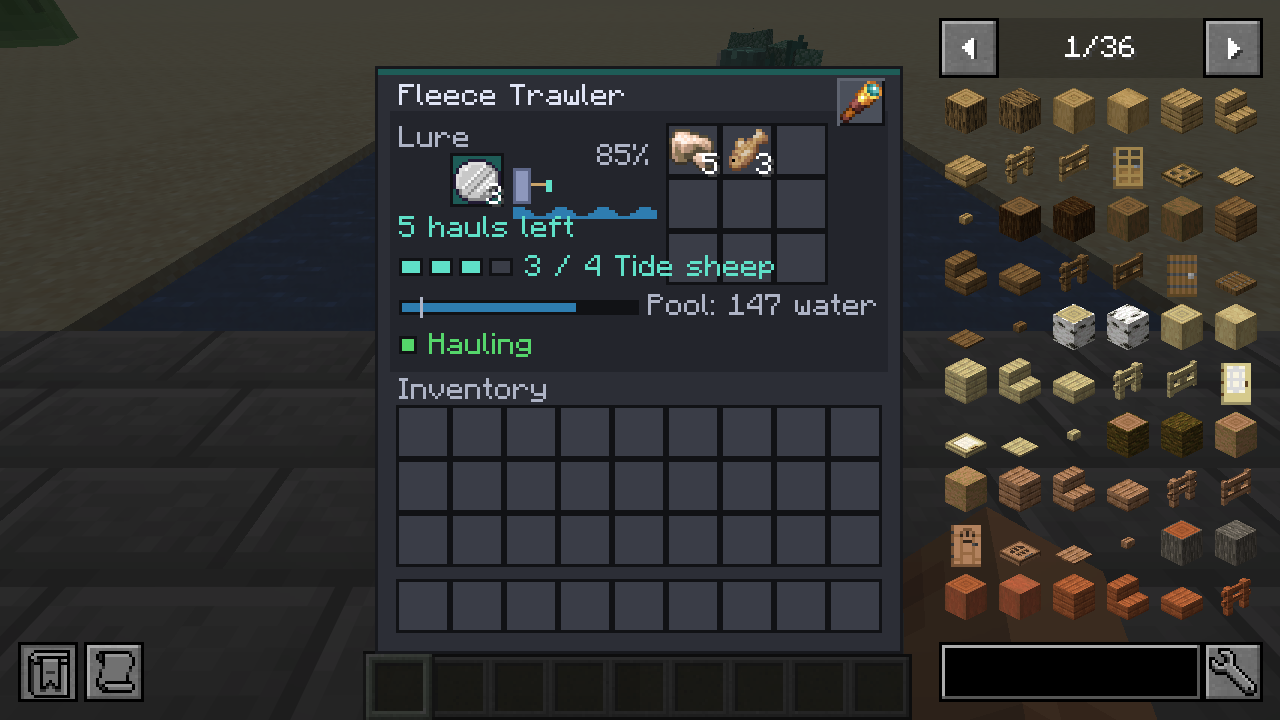
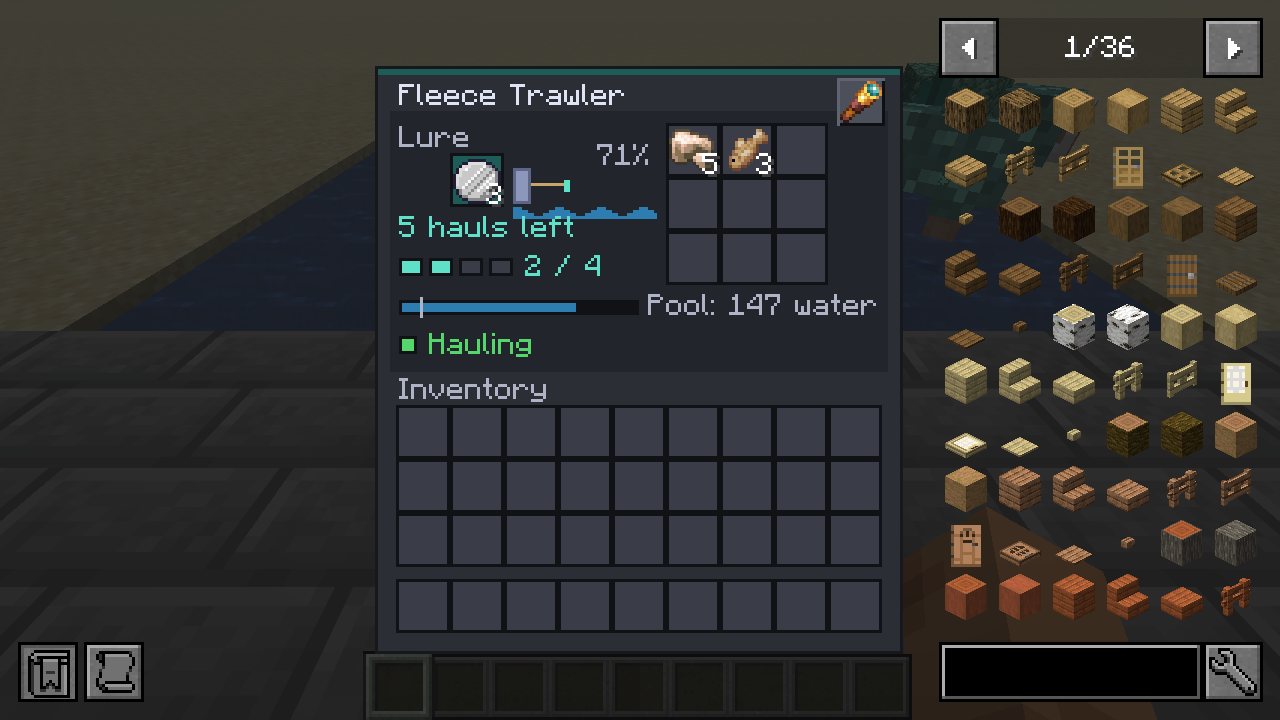
Fleece Trawler: retake its window screenshot after the layout fix
Claude-Session: https://claude.ai/code/session_012iurxobutw9xMP3SqHHLFE

diff --git a/TESTING.md b/TESTING.md
@@ -52,7 +52,7 @@ Environment for the results below: Minecraft 26.3, NeoForge 26.3.0.101, JEI 31.1
 | Blue Steel | GameTest `blue_steel_replaces_iron_in_every_recipe`, then `-PharnessScene=blue_steel` | ✅ An Iron Ingot and lime wool craft Blue Steel, nine make a Block of Blue Steel and it gives nine back; none of the mod's crafting recipes takes an Iron Ingot or Block of Iron any more. In the client the block places (and sounds like iron), and JEI shows Blue Steel's recipes and the Functional Machine Block taking it in its corners |
 | Infused sheep wear their blocks | `./gradlew runClient -PscreenshotHarness -PharnessScene=block_wool` | ✅ One sheep of each of the 25 built-in resources. The plain ones wear a fleece of their block: Stone (cobblestone), Coal, Iron, Copper, Gold, Redstone, Lapis, Diamond, Emerald and Quartz blocks, ancient debris on Netherite, oak bark on Wood, and the mushroom blocks, with no sparkle over them. The themed sheep keep their own designs (the Ghast white with its tentacles, Spider, Wither, Dragon, Blaze, Warden, Glow Ink, Skeleton, Wither Skeleton), and Hay and Snow their hand-drawn fleeces |
 | Fleece Trawler in the test world | `extend_world` on *BFC Test World*, then `world_tour` on a copy | ✅ Cell (1, 6): a full pool (196 water) in a fenced dark prismarine basin, three Tide sheep in it, the trawler *Hauling*; during the tour it made 5 hauls, its hopper moved 3 Cod, a Pufferfish and 2 Raw Iron (from its Iron Wool lure, 15 left) into the chest in the floor. The status panel shows 23 machines, the trawler among them (*Hauling 26%*) |
-| Fleece Trawler window, JEI and Jade | `-PharnessScene=fleece_trawler` | ✅ Its window (opened as a real menu): the lure with *5 hauls left*, the winch at 85%, *3 / 4* sheep pips, the pool bar at 147, *Hauling*, its catch of Raw Iron and Cod. Jade: *Hauling*, *3 / 4 Tide sheep*, *Pool: 147 water*, the winch, *Lure: 4 Iron Wool*, hauls so far. JEI's page: a Tide sheep into the trawler, fish and junk out, the haul time and pool size; one page per resource wool as a lure |
+| Fleece Trawler window, JEI and Jade | `-PharnessScene=fleece_trawler` | ✅ Its window (opened as a real menu): the lure with *5 hauls left*, the winch at 71%, *2 / 4* sheep pips, the pool bar at 147, *Hauling*, its catch of Raw Iron and Cod. Jade: *Hauling*, *3 / 4 Tide sheep*, *Pool: 147 water*, the winch, *Lure: 4 Iron Wool*, hauls so far. JEI's page: a Tide sheep into the trawler, fish and junk out, the haul time and pool size; one page per resource wool as a lure |
 | Crate Controller in the test world | `extend_world` on *BFC Test World*, then `world_tour` on a copy | ✅ On top of the storeroom wall it took in all 15 crates by touch; its hopper fed the chest's cobblestone into the cobblestone crate (+137 during the tour) and 64 bread into its empty crate, so it reads *No empty crates* (amber) at 36%. The status panel shows 22 machines, the controller among them |
 | Crate Controller JEI and Jade | `-PharnessScene=crate_controller` | ✅ Jade: *Crates: 7 / 64*, *4,948 / 14,336 items (34%)*, *Empty crates: 0*, *Full, could burst: 1*, *Bulging: 1*, *Signal 5*, and Jade's list of every item in the store; on a crate, *In a Crate Controller's store*. JEI's page shows the crate and hopper/pipe in, the comparator and panel out, the three steps and the strain warning |
 | Crate Controller in the real client | `./gradlew runClient -PscreenshotHarness -PharnessScene=crate_controller` | ✅ Built into a wall of five crates, it took them in by touch (brass tags on all five); real wrench clicks (controller, a crate across the room, controller) linked that crate and the one on top of it: 7 crates. 200 wheat put in through it went to the empty far crate; the full redstone crate made it read *Could burst* (red on its front, and on the status panel's report); its front reads *7 crates* and *34%* |

diff --git a/docs/REFERENCE.md b/docs/REFERENCE.md
@@ -767,7 +767,7 @@ I H I      H = Hopper
 | On its dock, Tide sheep swimming in its pool | Its net drum |
 |---|---|
 | ![A Fleece Trawler on a stone-brick dock at the edge of a pool, three teal Tide sheep with fins and gills swimming in it, prismarine growing from their fleece](screenshots/115_tide_sheep.png) | ![The Fleece Trawler from behind its dock, its pool and sheep beyond it](screenshots/115_fleece_trawler_close.png) |
-| ![Its window: an Iron Wool lure with 5 hauls left, the winch at 85% with a wave under it, 3 / 4 Tide sheep pips, the pool bar at 147 water, status Hauling, and its catch of Raw Iron and Cod](screenshots/115_fleece_trawler_gui.png) | ![Jade on it: Hauling, 3 / 4 Tide sheep, Pool: 147 water, Winch, Lure: 4 Iron Wool, hauls so far and what it holds](screenshots/115_fleece_trawler_jade.png) |
+| ![Its window: an Iron Wool lure with 5 hauls left, the winch at 71% with a wave under it, 2 / 4 Tide sheep pips, the pool bar at 147 water, status Hauling, and its catch of Raw Iron and Cod](screenshots/115_fleece_trawler_gui.png) | ![Jade on it: Hauling, 3 / 4 Tide sheep, Pool: 147 water, Winch, Lure: 4 Iron Wool, hauls so far and what it holds](screenshots/115_fleece_trawler_jade.png) |
 | ![JEI's Fleece Trawler page: a Tide sheep into the trawler, fish and junk out; one sheep: a haul every 30 s; pool up to 7x7x4, min 18. Its other pages show each resource wool as a lure](screenshots/115_fleece_trawler_jei.png) | ![The test world's Fleece Trawler: a full 7x7 pool sunk in a dark prismarine basin, fenced, three Tide sheep swimming in it, the trawler on its south rim with a hopper under it into a chest in the floor](screenshots/115_fleece_trawler_world.png) |
 
 - **Placing it:** its net faces away from you, so place it standing on the bank, looking out over the water.
